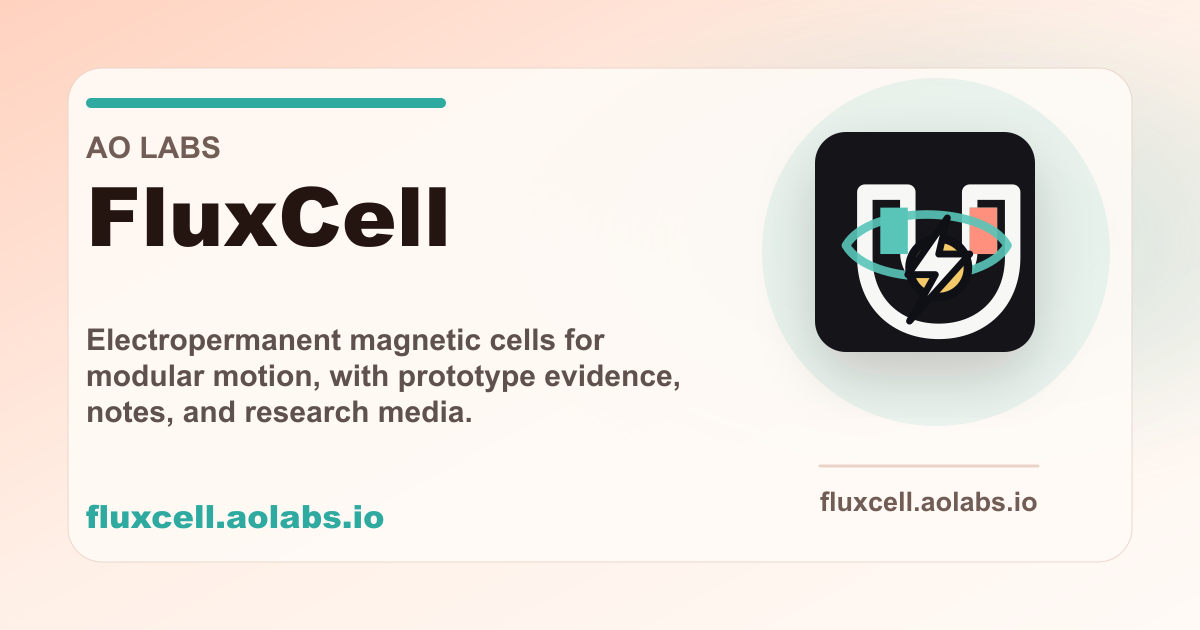
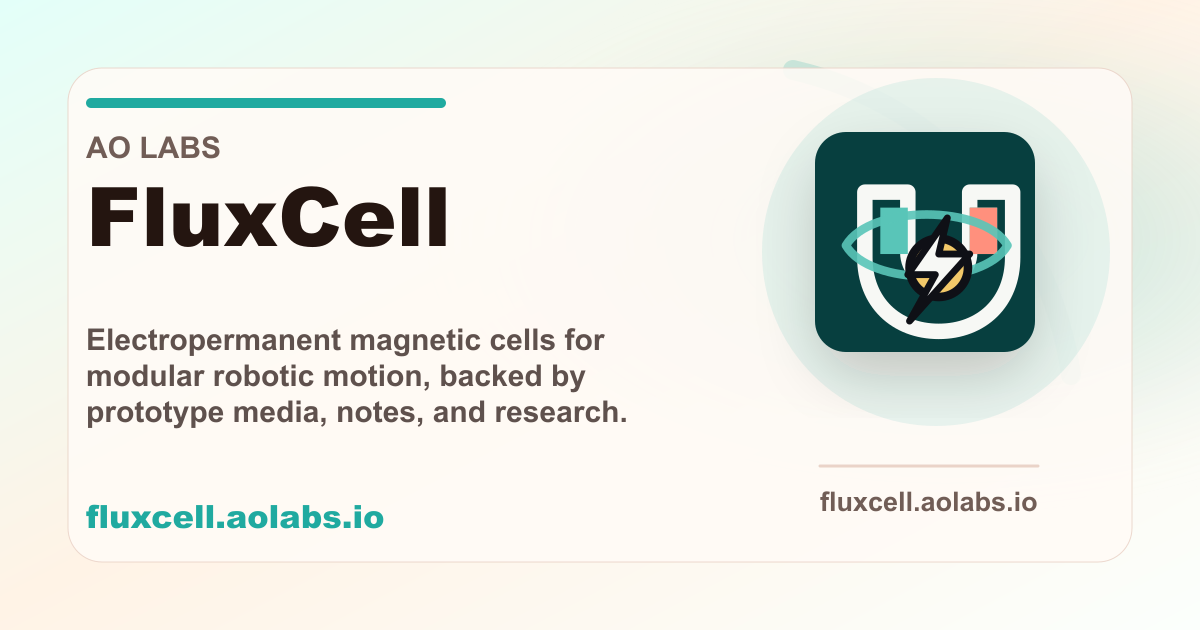
Refine social preview themes

diff --git a/public/index.html b/public/index.html
@@ -5,7 +5,7 @@
     <meta name="viewport" content="width=device-width, initial-scale=1">
     <meta name="theme-color" content="#090b0d">
     <title>FluxCell</title>
-    <meta name="description" content="Electropermanent magnetic cells for modular motion, with prototype evidence, notes, and research media.">
+    <meta name="description" content="Electropermanent magnetic cells for modular robotic motion, backed by prototype media, notes, and research.">
     <link rel="canonical" href="https://fluxcell.aolabs.io/">
   <meta name="twitter:image:alt" content="FluxCell by AO Labs preview card.">
   <meta name="twitter:image" content="https://fluxcell.aolabs.io/og-image-20260506.png">
@@ -18,11 +18,11 @@
     <meta property="og:type" content="website">
     <meta property="og:site_name" content="AO Labs">
     <meta property="og:title" content="FluxCell">
-    <meta property="og:description" content="Electropermanent magnetic cells for modular motion, with prototype evidence, notes, and research media.">
+    <meta property="og:description" content="Electropermanent magnetic cells for modular robotic motion, backed by prototype media, notes, and research.">
     <meta property="og:url" content="https://fluxcell.aolabs.io/">
     <meta name="twitter:card" content="summary_large_image">
     <meta name="twitter:title" content="FluxCell">
-    <meta name="twitter:description" content="Electropermanent magnetic cells for modular motion, with prototype evidence, notes, and research media.">
+    <meta name="twitter:description" content="Electropermanent magnetic cells for modular robotic motion, backed by prototype media, notes, and research.">
     <link rel="icon" href="/icon.svg?v=20260506-icons" type="image/svg+xml">
     <link rel="manifest" href="/site.webmanifest">
     <link rel="apple-touch-icon" href="/apple-touch-icon.svg?v=20260506-icons">
